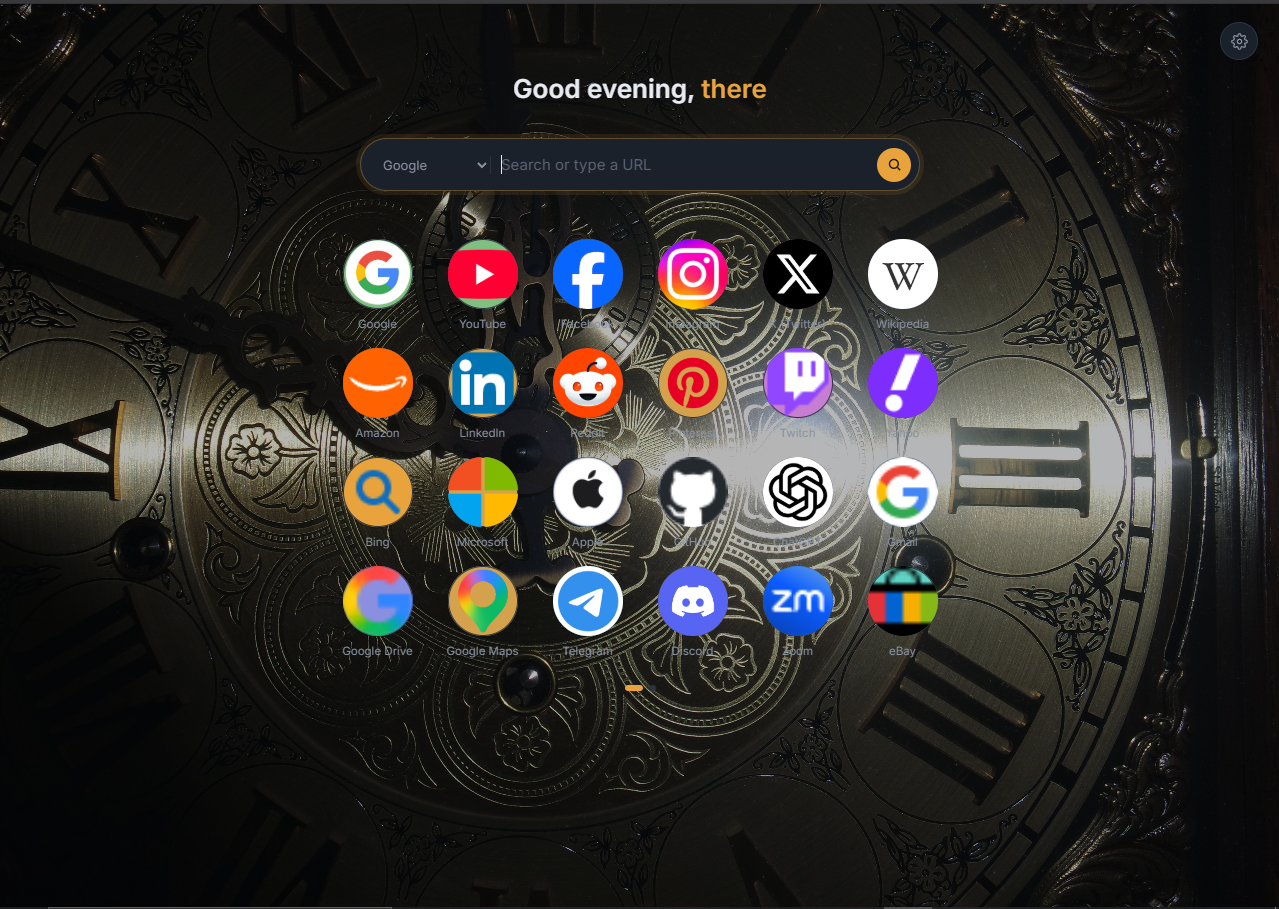
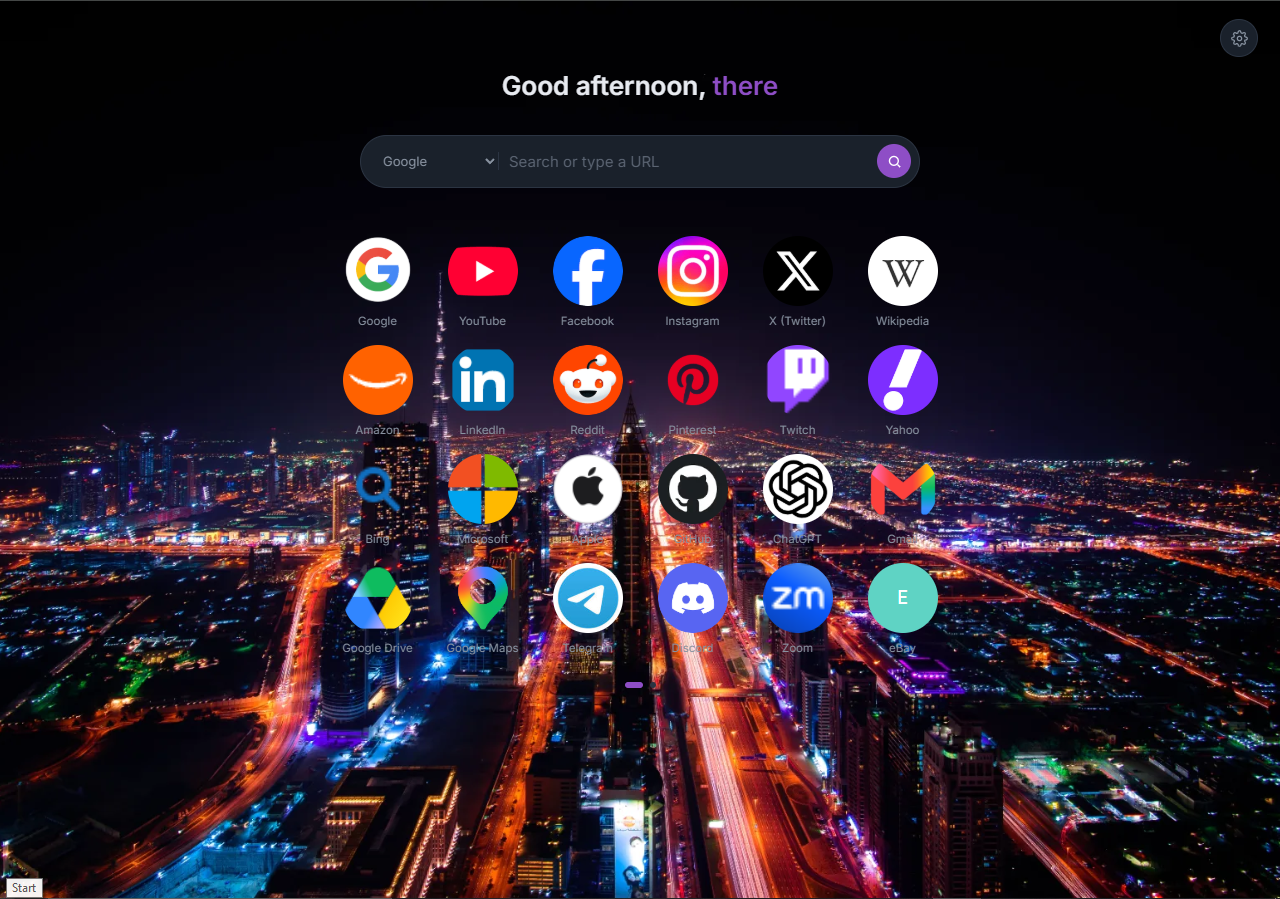
docs: refresh README, ISSUES, CONTRIBUTING for gradient + modal stack

diff --git a/README.md b/README.md
@@ -8,9 +8,10 @@ A minimal, fast, and offline-first New Tab replacement for Chromium-based browse
 [![Firefox Add-ons](https://img.shields.io/badge/Firefox-Available-FF7139?logo=firefox&logoColor=white)](https://addons.mozilla.org/firefox/addon/zs-new-tab/)
 
 <p align="center">
-  <img src="./images/s1.png" width="32%">
-  <img src="./images/s2.png" width="32%">
-  <img src="./images/s3.png" width="32%">
+  <img src="./images/s1.png" width="24%">
+  <img src="./images/s2.png" width="24%">
+  <img src="./images/s3.png" width="24%">
+  <img src="./images/s4.png" width="24%">
 </p>
 
 ## Features
@@ -19,9 +20,10 @@ A minimal, fast, and offline-first New Tab replacement for Chromium-based browse
 - **Custom icons** — auto-fetched favicons, optional per-site upload, colored-letter fallback
 - **Quick search** — ~50 switchable engines across 10 groups (General, AI, Google Tools, Developer, Reference, Quran & Islamic, Media, Social, Shopping); typing a URL, IP, or bare domain (e.g. `github.com`) navigates directly
 - **Pagination** — dot navigation, arrow buttons, mouse-wheel scrolling, and drag-to-edge paging (hold a dragged tile near the left/right edge to flip pages)
-- **Accent colors** — 18 presets + custom color picker; the whole UI re-themes instantly
-- **Settings panel** — display name, grid rows/columns, background image, accent color
+- **Accent colors** — 27 presets across warm/cool/neutral families + custom color picker; the whole UI re-themes instantly
+- **Settings panel** — display name, grid rows/columns, background image, gradient background, accent color
 - **Custom background** — upload any image, with a smooth crossfade on change
+- **Gradient backgrounds** — 16 preset gradients with live preview; picker opens in its own modal
 - **Smart compression** — icons (96×96 WebP) and backgrounds (1920×1080) are downscaled before saving
 - **Local backup & restore** — export/import your full setup (sites, settings, icons, background) as `.json`
 - **Optional cloud backup** — one-click sync of your backup to your own Google Drive
@@ -82,14 +84,14 @@ The background has its own module (`js/100-db.js`) with a **snapshot-and-rollbac
 
 ## Supported browsers
 
-**Chromium-based** (Manifest V3, minimum Chrome 88):
+**Chromium-based** (Manifest V3, minimum Chrome 102 — required for `inert`):
 - Chrome
 - Edge
 - Brave
 - Opera
 - Vivaldi
 
-**Firefox** (Manifest V3, minimum Firefox 109):
+**Firefox** (Manifest V3, minimum Firefox 112 — required for `inert`):
 - Tested on Firefox Developer Edition
 - **Published on Firefox Add-ons:** [ZS New Tab](https://addons.mozilla.org/firefox/addon/zs-new-tab/)
 - ⚠ **Google Drive sync on Firefox** requires the redirect URI to be registered in Google Cloud Console. It works on signed builds and official releases, but **not** on temporary extensions loaded via `about:debugging`.
@@ -233,6 +235,8 @@ chrome.tabs.onUpdated.addListener((tabId, changeInfo, tab) => {
 | Resize limits | `resizeImage()` in `js/30-core-utils.js` |
 | Background fade duration | `--bg-fade-ms` in `styles/20-variables.css` |
 | Google OAuth client ID | `js/105-app-drive-auth.js` **and** `manifest.json` → `oauth2.client_id` |
+| Gradient presets | `GRADIENTS` in `js/10-core-state.js` |
+| Default gradient | `DEFAULT_GRADIENT` in `js/10-core-state.js` (must match `--bg-gradient` in `styles/20-variables.css`) |
 
 After editing anything in `js/` or `styles/`, run `node build.js` (or leave the dev server running) to regenerate `dist/`.
 
@@ -261,7 +265,7 @@ Everything lives in your browser. By default, ZS New Tab makes **no network requ
 
 Two complementary ways to back up your setup:
 
-- **Local export** — "Export backup (.json)" downloads a single file to your device. "Import backup" restores it. The importer is strict (only accepts files exported by this extension), sanitizes invalid fields, and snapshots current state + background before running — rolling back automatically if anything fails.
+- **Local export** — "Export backup (.json)" downloads a single file to your device. "Import backup" restores it. The importer is strict (only accepts files exported by this extension), sanitizes invalid fields, and snapshots current state + background + gradient before running — rolling back automatically if anything fails.
 - **Google Drive** — the same content, uploaded to your Drive. Requires a one-time Google sign-in. See [Google Drive Backup](#google-drive-backup-optional) above.
 
 Both options are offered side-by-side in a modal when you click **Export** or **Import** — pick Device, Drive, or Both.

diff --git a/ISSUES.md b/ISSUES.md
@@ -57,6 +57,10 @@ Open a [GitHub Issue](https://github.com/ziadshalaby00/ZS-New-Tab/issues) with:
   settings panel. The auth token is cached in memory only and is
   discarded when the tab is closed; a `ZSDrive.signOut()` helper exists
   in code but is not yet wired to the UI.
+- [ ] **`inert` requires Chrome 102+ / Firefox 112+.** On older
+  browsers, the background behind an open modal is not marked inert,
+  so Tab can still reach it. All current targets meet the requirement;
+  this note is here for when the minimums are revisited.
 
 ## Build & tooling issues
 

diff --git a/CONTRIBUTING.md b/CONTRIBUTING.md
@@ -52,6 +52,7 @@ window.registerModule('ZSCore', (function () {
 | `ZSDrive` | Google Drive auth + sync (optional) | `105-*`, `107-*` |
 | `ZSApp`  | State + controllers | `110-*` … `180-*` |
 | `ZSProgress` | Progress bar UI for long-running operations | `166-app-progress.js` |
+| `ZSCore.modal` | Shared modal stack (open/close/Escape) | `35-core-modal.js` |
 
 Never redefine an existing function — extend it.
 
